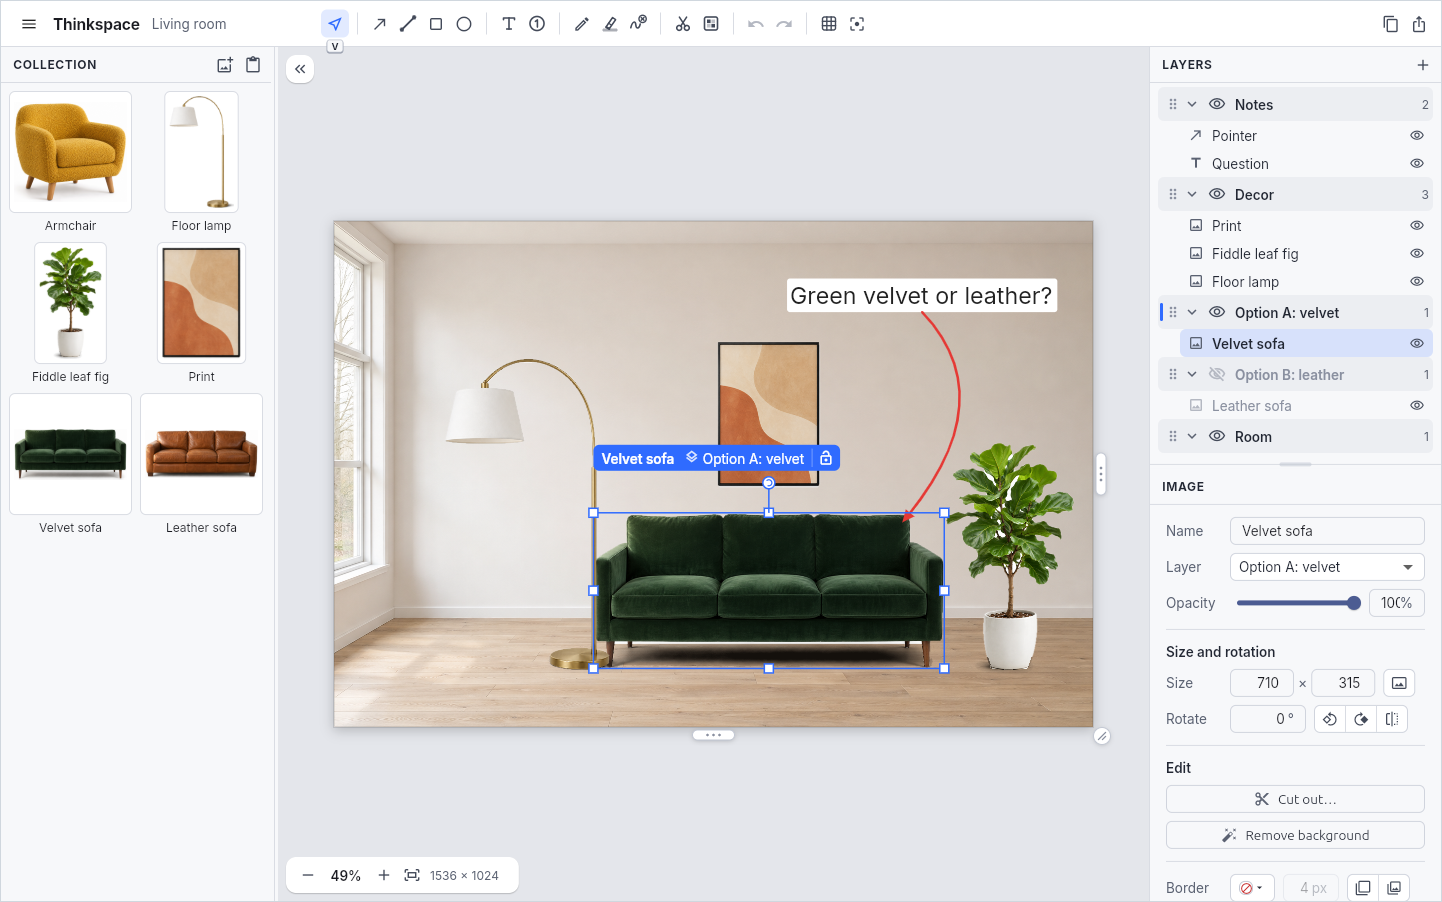
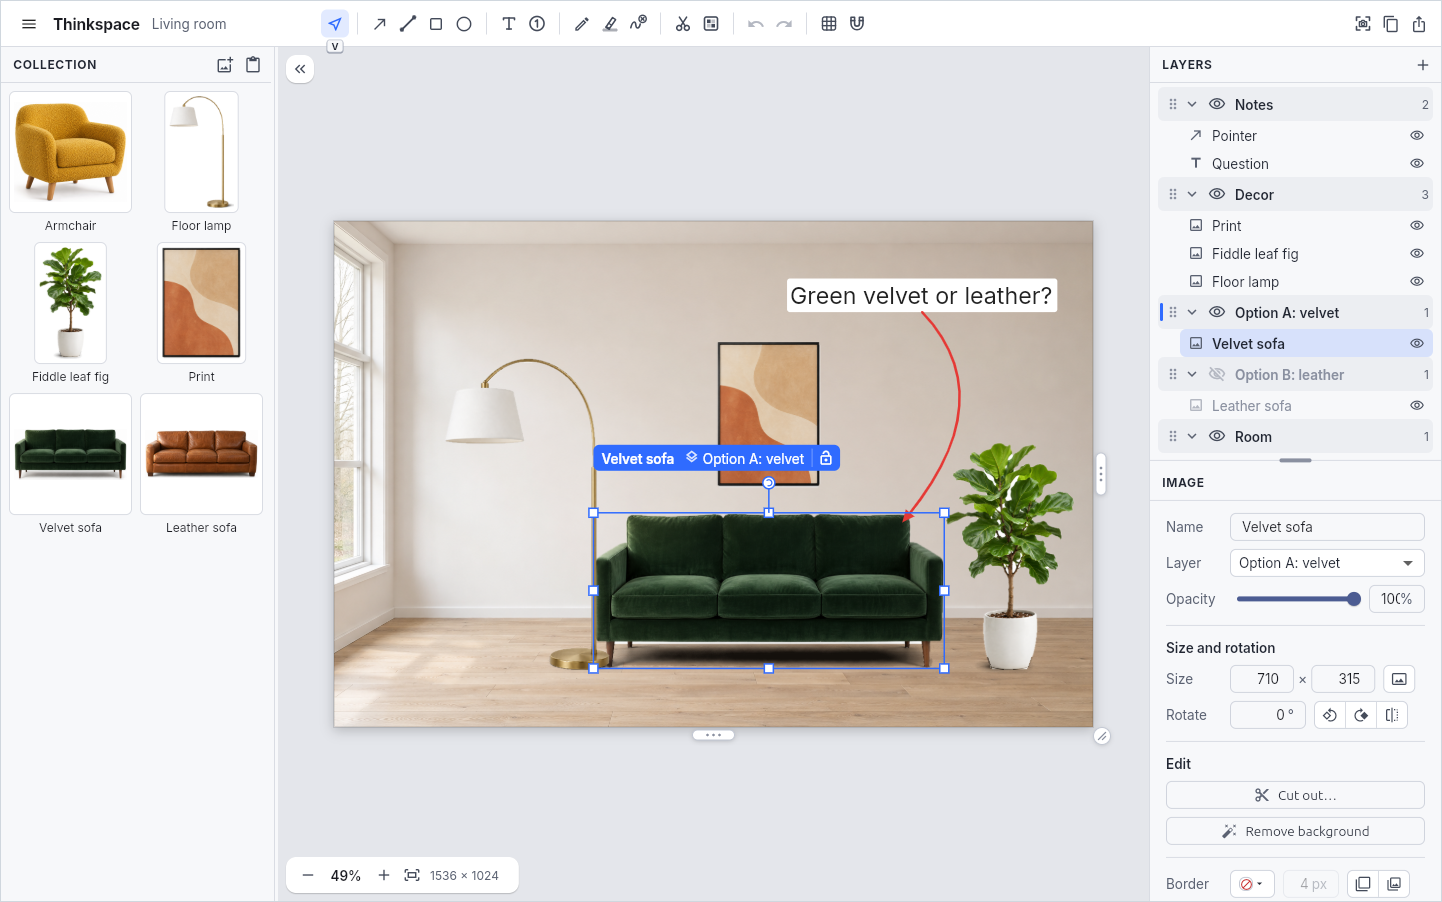
README: new toolbar in the screenshot, and the S key
The hero image is retaken from the same scene with the magnet and the
screenshot button. The shortcuts image is unchanged: the new row sits
below its crop.

diff --git a/README.md b/README.md
@@ -59,7 +59,7 @@ Layers are for organising, not effects. Put each option on its own layer and cli
 
 Every tool has a single letter: `V` select, `A` arrow, `T` text, `H` highlighter, and so on. The active tool shows its key under its button, so you learn the keys by using the toolbar.
 
-Press `?` or `F1` for the sheet on the right. The rest of the editing has keys too: nudging with the arrow keys, `[` and `]` for order, `F2` to rename, `Ctrl+L` to lock, `M` to merge and `Space` with a drag to pan.
+Press `?` or `F1` for the sheet on the right. The rest of the editing has keys too: nudging with the arrow keys, `[` and `]` for order, `F2` to rename, `Ctrl+L` to lock, `M` to merge and `Space` with a drag to pan. On Linux, `S` takes a screenshot: Thinkspace steps aside, you pick part of the screen, and the picture lands on the page.
 
 The full list is in [docs/KEYBOARD.md](docs/KEYBOARD.md).
 
@@ -80,6 +80,7 @@ The size comes from doing less. There are no plugins, accounts, filters, brushes
 
 - Arrows and lines that bend into curves and stay attached to what they point at.
 - Text, numbered markers, rectangles, ellipses, a pen and a highlighter that keeps writing underneath readable.
+- Screenshots taken from inside the app (Linux), with the desktop's own area picker.
 - Cut-outs and one-click background removal, which always make a new image and keep the original.
 - Hide details boxes that pixelate or cover something before you share it.
 - A page that grows to fit, and one undo step per gesture.
@@ -136,7 +137,7 @@ Touch and pen work too. One finger does what the mouse does, two fingers move an
 
 ## A first five minutes
 
-1. Take a screenshot to the clipboard, then press `Ctrl+V` in Thinkspace. Choose **Add to "Layer 1"**. The page becomes the size of your screenshot.
+1. Press `S` in Thinkspace and drag across part of the screen. On Windows, take a screenshot to the clipboard and press `Ctrl+V` instead. Choose **Add to "Layer 1"**. The page becomes the size of your screenshot.
 2. Press `A` and drag across the screen to draw an arrow. Drag either end to resize it. `Shift` keeps it straight.
 3. Press `T`, click, type a note. Press `Esc` to finish.
 4. Copy another image and press `Ctrl+Shift+V` to put it in the collection. Drag it onto the page, pull a corner to size it, and slide **Opacity** in the panel.
